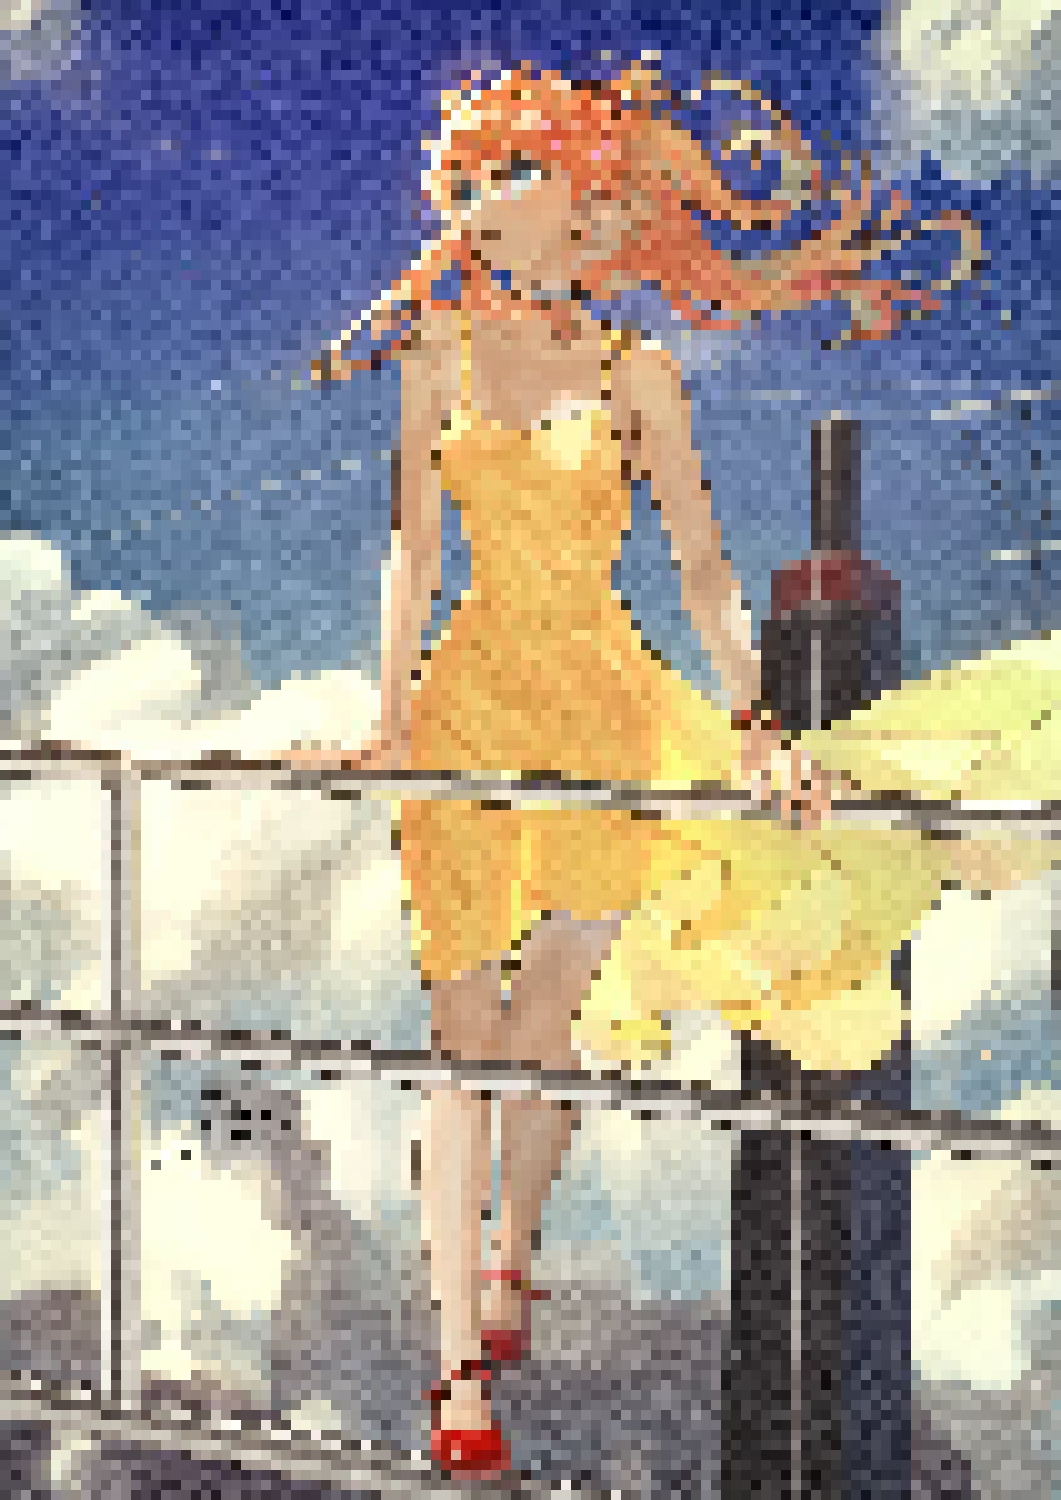
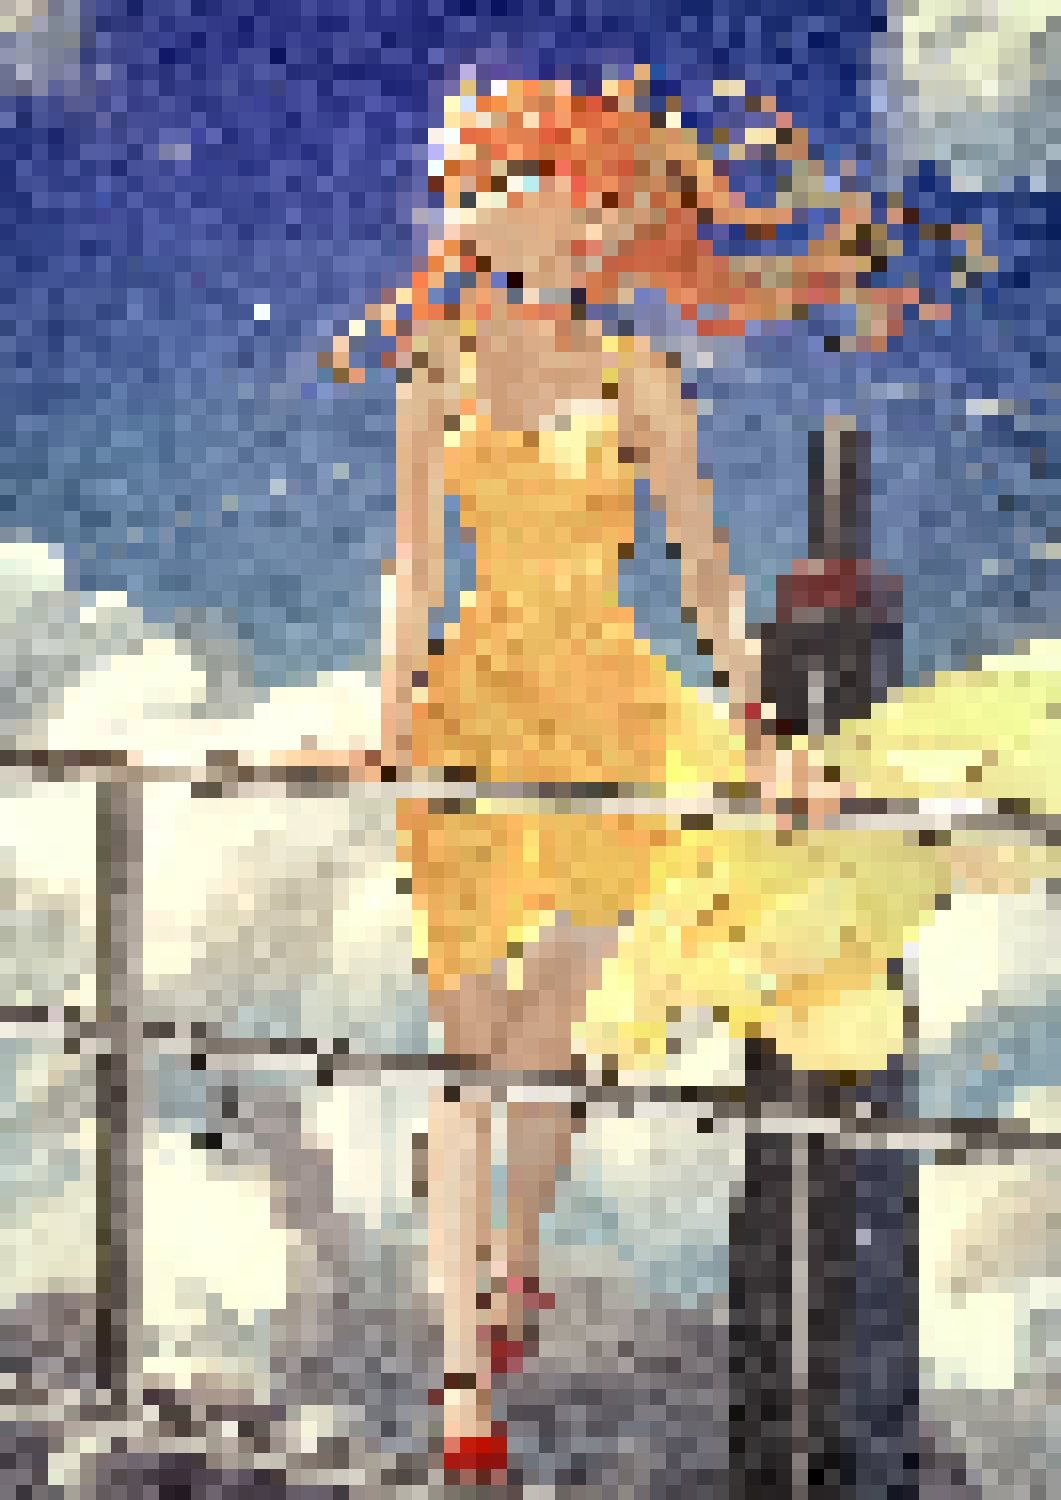
Refactor pixel8 function to use blockSize parameter for resizing

diff --git a/main.go b/main.go
@@ -6,16 +6,16 @@ import (
 	"image/jpeg"
 	"image/png"
 	"log"
+	"math"
 	"os"
 	"path"
 	"strings"
 )
 
-/* 
+/*
 TODO
 -Grayscale
 -Color Palettes
--scale / block size
 */
 
 func main() {
@@ -24,7 +24,8 @@ func main() {
 		log.Fatal(err)
 	}
 
-	pixelated := pixel8(img, 0.1)
+	blockSize := 16
+	pixelated := pixel8(img, blockSize)
 	err = saveImageToFile(pixelated, "output/asuka.jpg")
 	if err != nil {
 		log.Fatal(err)
@@ -46,12 +47,12 @@ func openImage(filename string) (image.Image, error) {
 	return img, nil
 }
 
-func pixel8(img image.Image, scale float64) image.Image {
+func pixel8(img image.Image, blockSize int) image.Image {
 	width := img.Bounds().Dx()
 	height := img.Bounds().Dy()
 
-	scaledW := int(float64(width) * scale)
-	scaledH := int(float64(height) * scale)
+	scaledW := int(math.Ceil(float64(width) / float64(blockSize)))
+	scaledH := int(math.Ceil(float64(height) / float64(blockSize)))
 
 	// Resize the image to scaled down size, then resize again to original size.
 	scaledDownImg := resizeWithNearestNeighbour(img, scaledW, scaledH)
